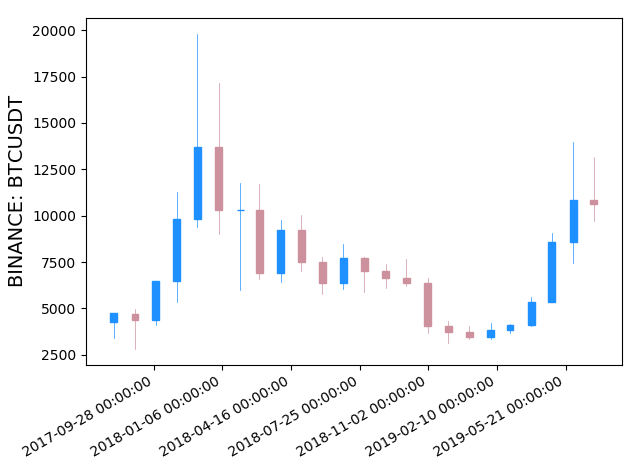
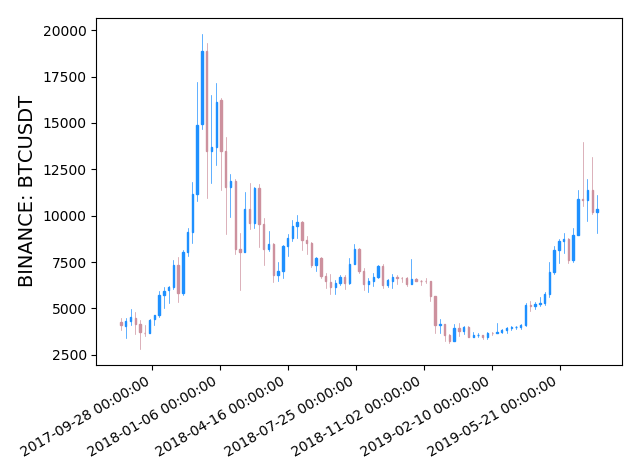
graphical improvement on candlestick width rescaling, among improvements on others

diff --git a/backtest_simple.py b/backtest_simple.py
@@ -26,8 +26,8 @@ from binancereader import *
 ticker_name='SBUX'
 
 'moving averages to compare against'
-roll_mean1 = 21
-roll_mean2 = 63
+roll_mean1 = 5
+roll_mean2 = 15
 
 'tolerance for moving avg. comparison / regime determination'
 SD = 0.1
@@ -35,7 +35,7 @@ SD = 0.1
 '''# ========== CRYPTOCURRENCIES (Boolean to True, else False) ============='''
 crypto = True
 
-ticker_name = 'BNB'
+ticker_name = 'BTC'
 
 '''# ======================================================================='''
 
@@ -56,7 +56,7 @@ end = dt.datetime.now()
 close_str = 'close'
 
 if crypto == True:
-    hist_data = coindoll(ticker_name)
+    hist_data = coindoll(ticker_name,interval = '1w',weight='USDT')
 
 else:
 
@@ -67,23 +67,26 @@ else:
 
 
 print(hist_data)
+
 #print(hist_data.index)
 
 #hist_data[[close_str]].plot(title = '{} Historical Data'.format(ticker_name), grid=False, figsize=(8, 5))
 
 
-hist_data[str(roll_mean1)+'d'] = np.round(pd.rolling_mean(hist_data[close_str], window=roll_mean1), 2)
-hist_data[str(roll_mean2)+'d'] = np.round(pd.rolling_mean(hist_data[close_str], window=roll_mean2), 2)
+#hist_data[str(roll_mean1)+'d MA'] = np.round(pd.rolling_mean(hist_data[close_str], window=roll_mean1), 2)
+#hist_data[str(roll_mean2)+'d MA'] = np.round(pd.rolling_mean(hist_data[close_str], window=roll_mean2), 2)
+hist_data[str(roll_mean1)+'d MA'] = hist_data[close_str].rolling(window=roll_mean1).mean()
+hist_data[str(roll_mean2)+'d MA'] = hist_data[close_str].rolling(window=roll_mean2).mean()
 
-hist_data[[close_str, str(roll_mean1)+'d', str(roll_mean2)+'d']].tail()
+hist_data[[close_str, str(roll_mean1)+'d MA', str(roll_mean2)+'d MA']].tail()
 
-hist_data[[close_str, str(roll_mean1)+'d', str(roll_mean2)+'d']].plot(grid=False, figsize=(8, 5))
+hist_data[[close_str, str(roll_mean1)+'d MA', str(roll_mean2)+'d MA']].plot(grid=False)
 
 
 
 ''' buy / sell / hold regime determination '''
 
-hist_data['mov_avg'] = hist_data[str(roll_mean1)+'d'] - hist_data[str(roll_mean2)+'d']
+hist_data['mov_avg'] = hist_data[str(roll_mean1)+'d MA'] - hist_data[str(roll_mean2)+'d MA']
 
 hist_data['mov_avg'].tail()
 
@@ -91,16 +94,17 @@ hist_data['regime'] = np.where(hist_data['mov_avg'] > SD, 1, 0)
 hist_data['regime'] = np.where(hist_data['mov_avg'] < -SD, -1, hist_data['regime'])
 hist_data['regime'].value_counts()
 
-hist_data['regplot']=max(hist_data[close_str])*(100+hist_data['regime'])/100
-hist_data['regplot'].plot(title= '{} technical analysis'.format(ticker_name),linestyle='--',  grid=False,lw=1.5)
+#hist_data['buy hold sell']=max(hist_data[close_str])*(100+hist_data['regime'])/100
+hist_data['buy hold sell']=max(hist_data[close_str])*(100+60*hist_data['regime'])/100
 
+hist_data['buy hold sell'].plot(title= '{} technical analysis'.format(ticker_name),linestyle='--',  grid=False,lw=1.5)
 
 
 '''Market / Strategy comparison '''
 
 hist_data['market'] = np.log(hist_data[close_str] / hist_data[close_str].shift(1))
 
-#hist_data['strategy'] =  hist_data['market'] *(1+hist_data['regime'].shift(1))
+hist_data['strategy'] =  hist_data['market'] *(1+hist_data['regime'].shift(1))
 
 '''include Capital Gains tax for sold equities'''
 taxrate=0.2
@@ -123,10 +127,10 @@ for i in range(LS):
 #plot(title='{} Market v. Strategy Return comparison'.format(ticker_name),grid=False, figsize=(8, 5))
 hist_data[['market','strategy']]=hist_data[['market','strategy']].cumsum().apply(np.exp)
 
-hist_data['relgrowth'] = hist_data['strategy']*hist_data[close_str]
-hist_data['relgrowth'].plot()
+hist_data['strategy return'] = hist_data['strategy']*hist_data[close_str]
+hist_data['strategy return'].plot()
 
-
+plt.legend()
 #hist_data[['market','strategy']].plot(title='{} Market v. Strategy Return comparison'.format(ticker_name),grid=False, figsize=(8, 5))
 
 

diff --git a/andrewsticks.py b/andrewsticks.py
@@ -4,9 +4,13 @@ Created on Sat Jul 13 16:58:54 2019
 
 @author: garci
 """
+'''andrewsticks.py : A script for making candlestick charts from OHLC data
+exported from Binance exchange
+Andrew Garcia 2019'''
+
+
 from mpl_finance import candlestick2_ohlc
 from mpl_finance import candlestick_ohlc
-
 
 
 import matplotlib.pyplot as plt
@@ -17,10 +21,10 @@ import binancereader as brc
 
 import matplotlib.dates as mdates
 
-def chart(curr='BTC', invl='1M', rate='USDT',mano1=0,mano2=0,tol=''):
-    #curr, invl, rate = 'BTC', '1h', 'b'
+def chart(curr='BTC', invl='1M', weight='USDT',mano1=0,mano2=0,tol='',\
+          title=str(datetime.datetime.now()),xaxis=''):
     
-    quotes = brc.coindoll(curr, invl,rate)
+    quotes = brc.coindoll(curr, invl,weight)
     
     fig, ax = plt.subplots()
     
@@ -29,13 +33,19 @@ def chart(curr='BTC', invl='1M', rate='USDT',mano1=0,mano2=0,tol=''):
              quotes['open'],quotes['high'],quotes['low'],quotes['close'])
     
     
+    wadth = 0.02
     candlestick_ohlc(ax,new,\
-                     width= 0.5 if invl == '1d' \
-                     else 10 if invl == '1M'\
-                     else 0.08 if invl == '4h' \
-                     else 0.02 if invl == '1h' \
-                     else 0.0003 if invl == '1m' \
-                     else 0.001,colorup='dodgerblue', colordown='#CD919E')
+                     width= wadth if invl == '1h' \
+
+                     else wadth*int(invl[:-1])/60 if invl[-1:] == 'm' \
+                     else wadth*int(invl[:-1]) if invl[-1:] == 'h' \
+                     else wadth*24*int(invl[:-1]) if invl[-1:] == 'd' \
+                     else wadth*24*7*int(invl[:-1]) if invl[-1:] == 'w' \
+                     else wadth*24*7*4*int(invl[:-1]) if invl[-1:] == 'M' \
+                     else 0.001,\
+                     colorup='dodgerblue', colordown='#CD919E')
+#                     colorup='dodgerblue', colordown='gray')
+
     
     ma1=quotes['close'].rolling(mano1).mean()
     ma2=quotes['close'].rolling(mano2).mean()
@@ -46,11 +56,13 @@ def chart(curr='BTC', invl='1M', rate='USDT',mano1=0,mano2=0,tol=''):
     
     ax.xaxis.set_major_formatter(mdates.DateFormatter('%Y-%m-%d %H:%M:%S'))
     fig.autofmt_xdate()
-    fig.tight_layout()
-    plt.ylabel('BINANCE: '+curr+'USDT' if rate == 'USDT' else 'BINANCE: '+curr+'BTC', size=14)
+
+    plt.ylabel('BINANCE: '+curr+'USDT' if weight == 'USDT' else 'BINANCE: '+curr+'BTC', size=14)
+    plt.xlabel(xaxis)
     #plt.ylabel('$'+curr+'\)
-    
+    plt.title(title)
+    fig.tight_layout()
     plt.show()
     
-chart()
-#chart(curr='BTC', invl='1h', rate='b',mano1=11,mano2=22)
+    
+#chart(invl='1m')

diff --git a/binancereader.py b/binancereader.py
@@ -58,8 +58,8 @@ def get_bars(symbol, interval = INTERVAL):
    return df
 
 
-def coindoll(symbol, interval = INTERVAL,rate='USDT'):
-    if rate == 'USDT':
+def coindoll(symbol, interval = INTERVAL,weight='USDT'):
+    if weight == 'USDT':
         if symbol == 'BTC':
             'read BTC to USD'
             df = get_bars('BTCUSDT', interval = interval)

diff --git a/README.md b/README.md
@@ -15,19 +15,18 @@ WITHOUT WARRANTIES OR CONDITIONS OF ANY KIND, either express or implied.
 See the License for the specific language governing permissions and
 limitations under the License.
 
-## backtest_simple.py
-
-Published code _**backtest_simple.py**_ is an **ADAPTED** script from the scripts in _**Python for Finance (Yves Hilpisch, 2014)**_ which show simple technical analysis algorithms for stocks. The algorithm has been adapted to import historical data from the web through *working* APIs as the Yahoo API (in Yves' 2014 book) has been deprecated. I have also recently added cryptocurrencies-importing capabilities from Binance (_**binancereader.py**_) and plotly publishing functionality.
-
-<a href="https://plot.ly/~andrewrgarcia/86.embed"><img src="Bitcoin.png" alt="drawing" width="500"/></a>
-
-<a href="https://plot.ly/~andrewrgarcia/96.embed"><img src="Harmony.png" alt="drawing" width="500"/></a>
-
 ## andrewsticks.py
 
 User-friendly script to turn stock market / crypto data to candlesticks (OHLC charts)
 
 <img src="BTC_andrewsticks.png" alt="drawing" width="500"/></a>
+
+## backtest_simple.py
+
+Published code _**backtest_simple.py**_ is an **ADAPTED** script from the scripts in _**Python for Finance (Yves Hilpisch, 2014)**_ which show simple technical analysis algorithms for stocks. The algorithm has been adapted to import historical data from the web through *working* APIs as the Yahoo API (in Yves' 2014 book) has been deprecated. I have also recently added cryptocurrencies-importing capabilities from Binance (_**binancereader.py**_) and plotly publishing functionality.
+
+<a href="https://plot.ly/~andrewrgarcia/86.embed"><img src="BTC.png" alt="drawing" width="500"/></a>
+
 
 ## GBM.py
 
